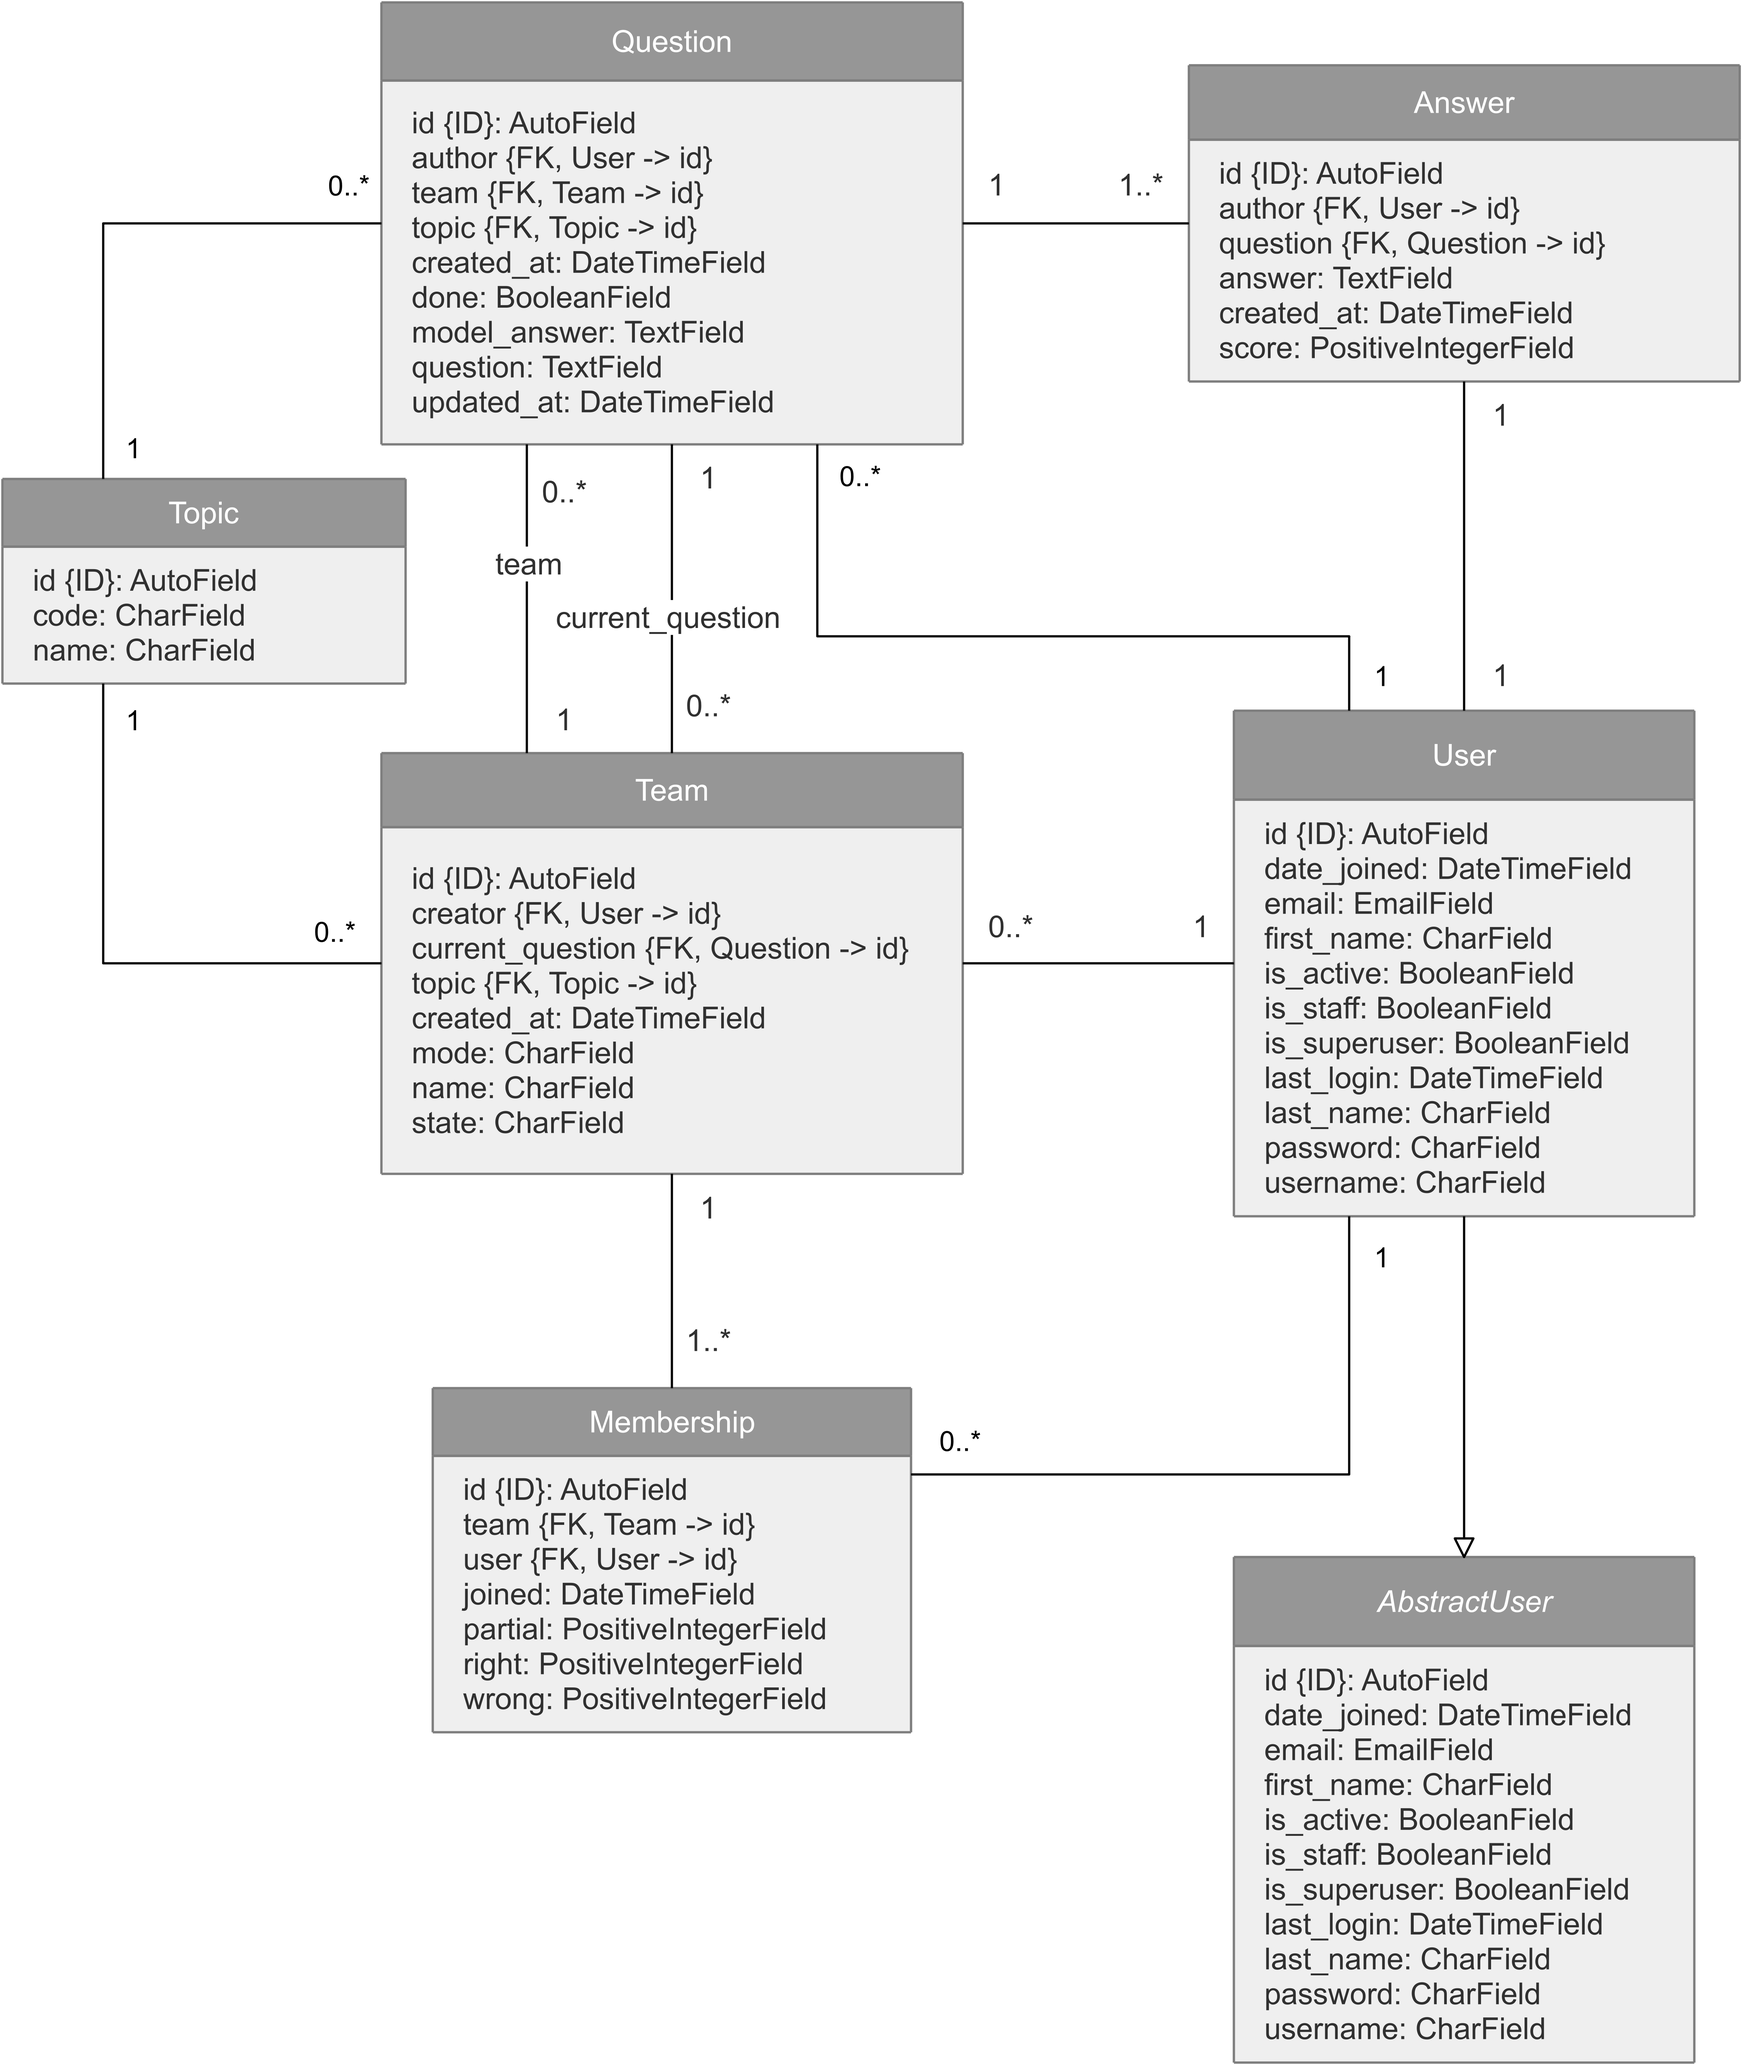
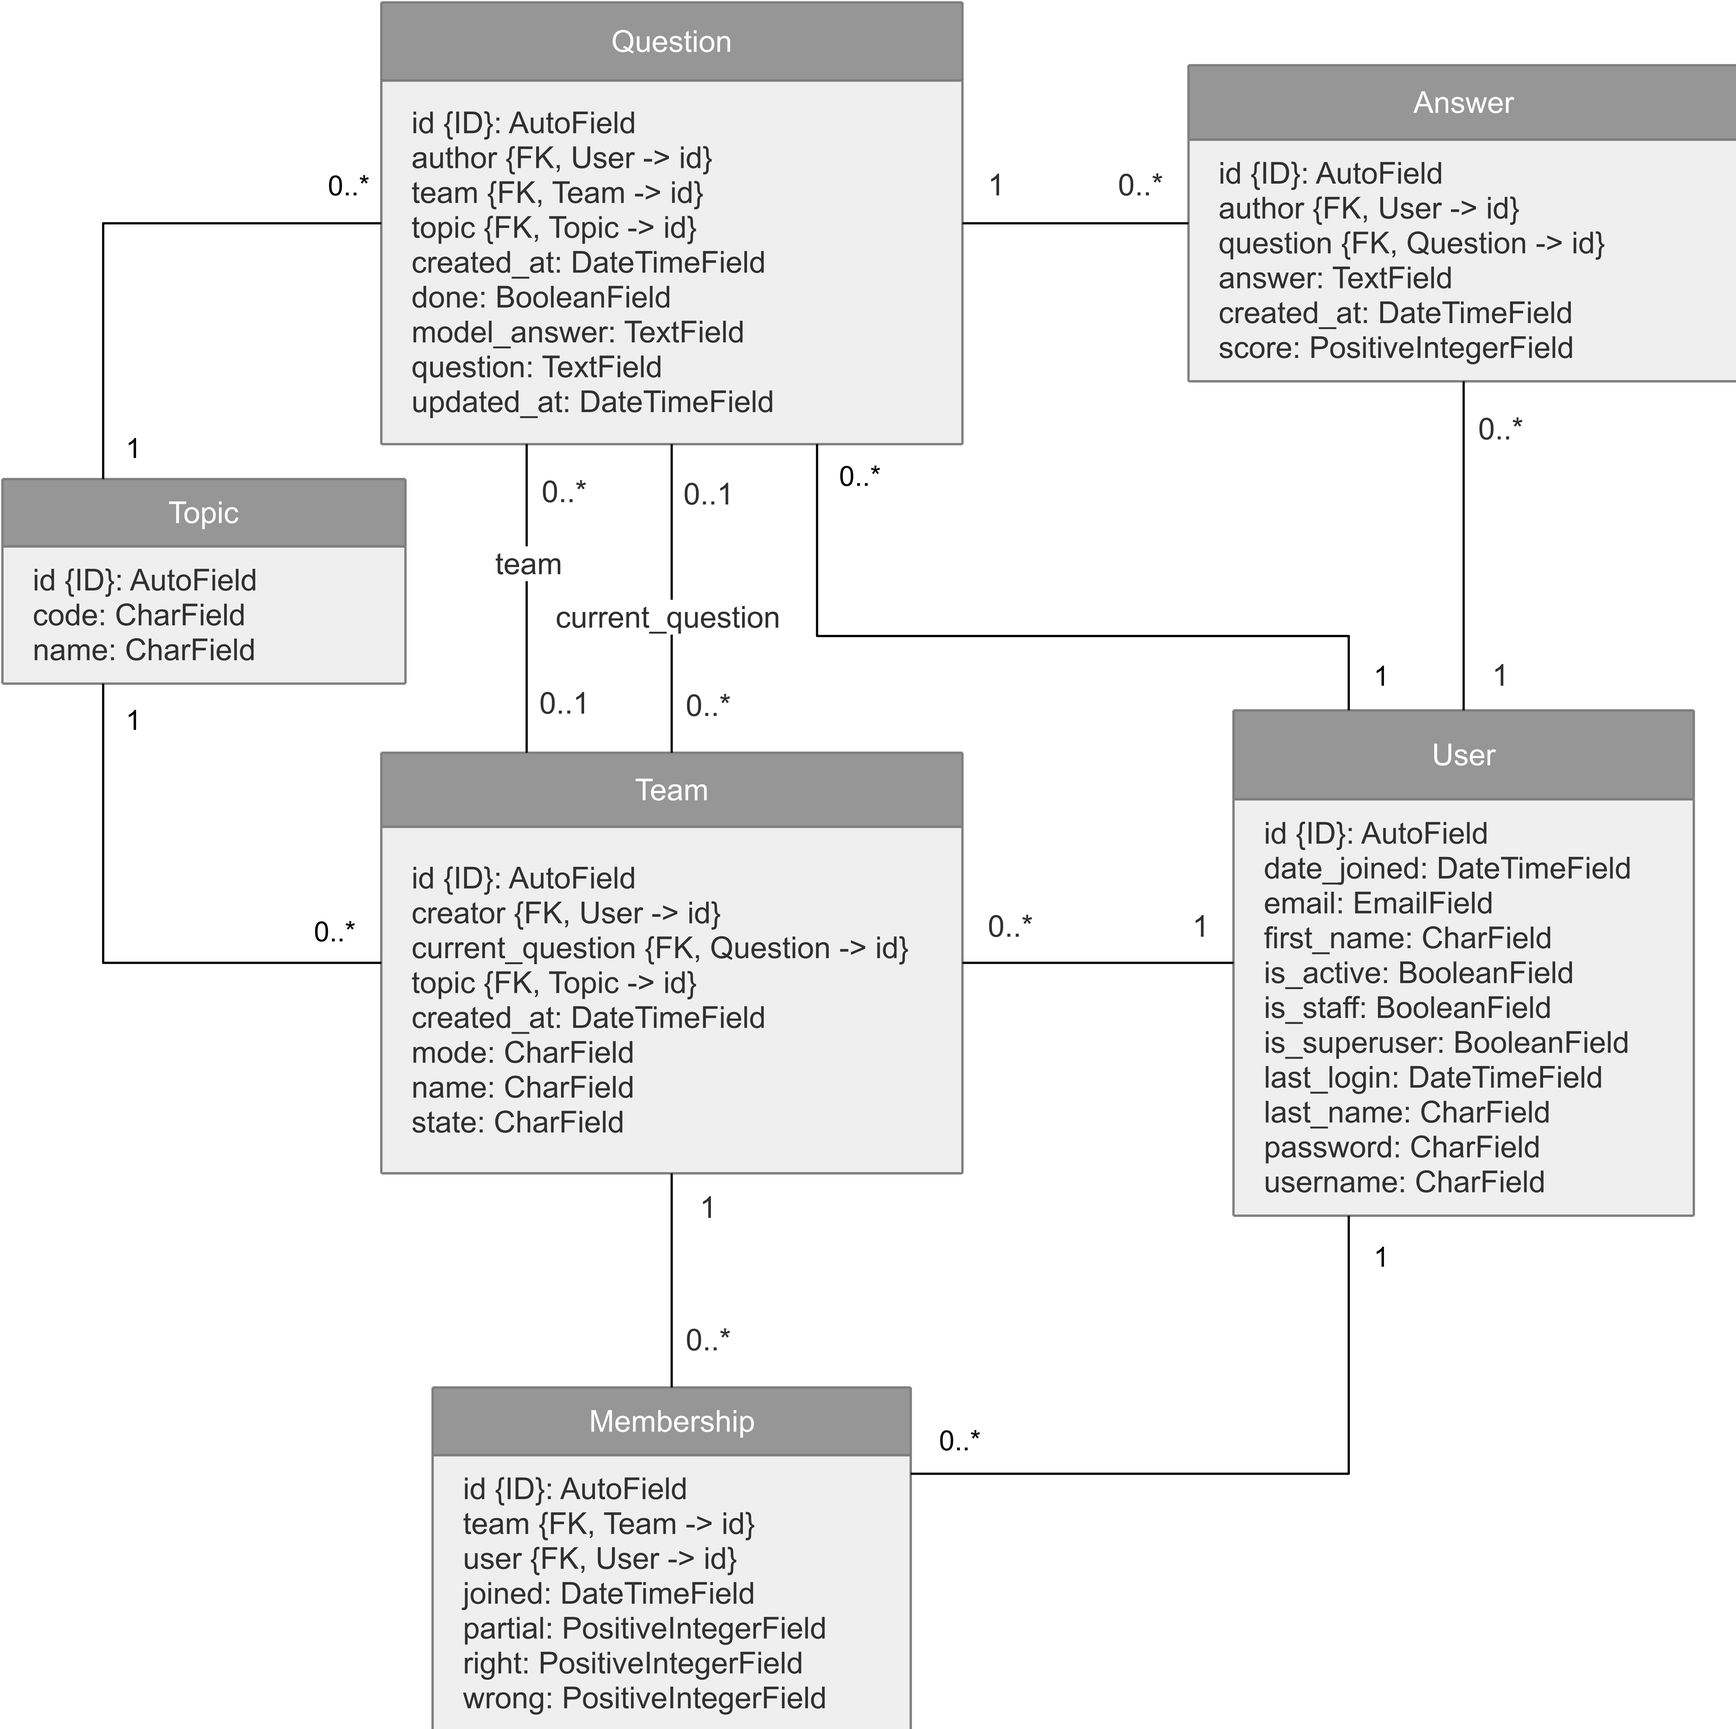
UML Datenmodell korrigiert

diff --git a/latex/Ergebnisdokumentation.tex b/latex/Ergebnisdokumentation.tex
@@ -132,8 +132,7 @@ Die von Microsoft betriebene Plattform GitHub.com bietet einen Dienst für das H
 
 
 \subject{Meilensteinbericht}
-\title{Meilenstein 3}
-\subtitle{Dokumentationskonzept bereitgestellt}
+\title{Ergebnisdokumentation}
 
 \begin{document}
 	\pagenumbering{Roman}
